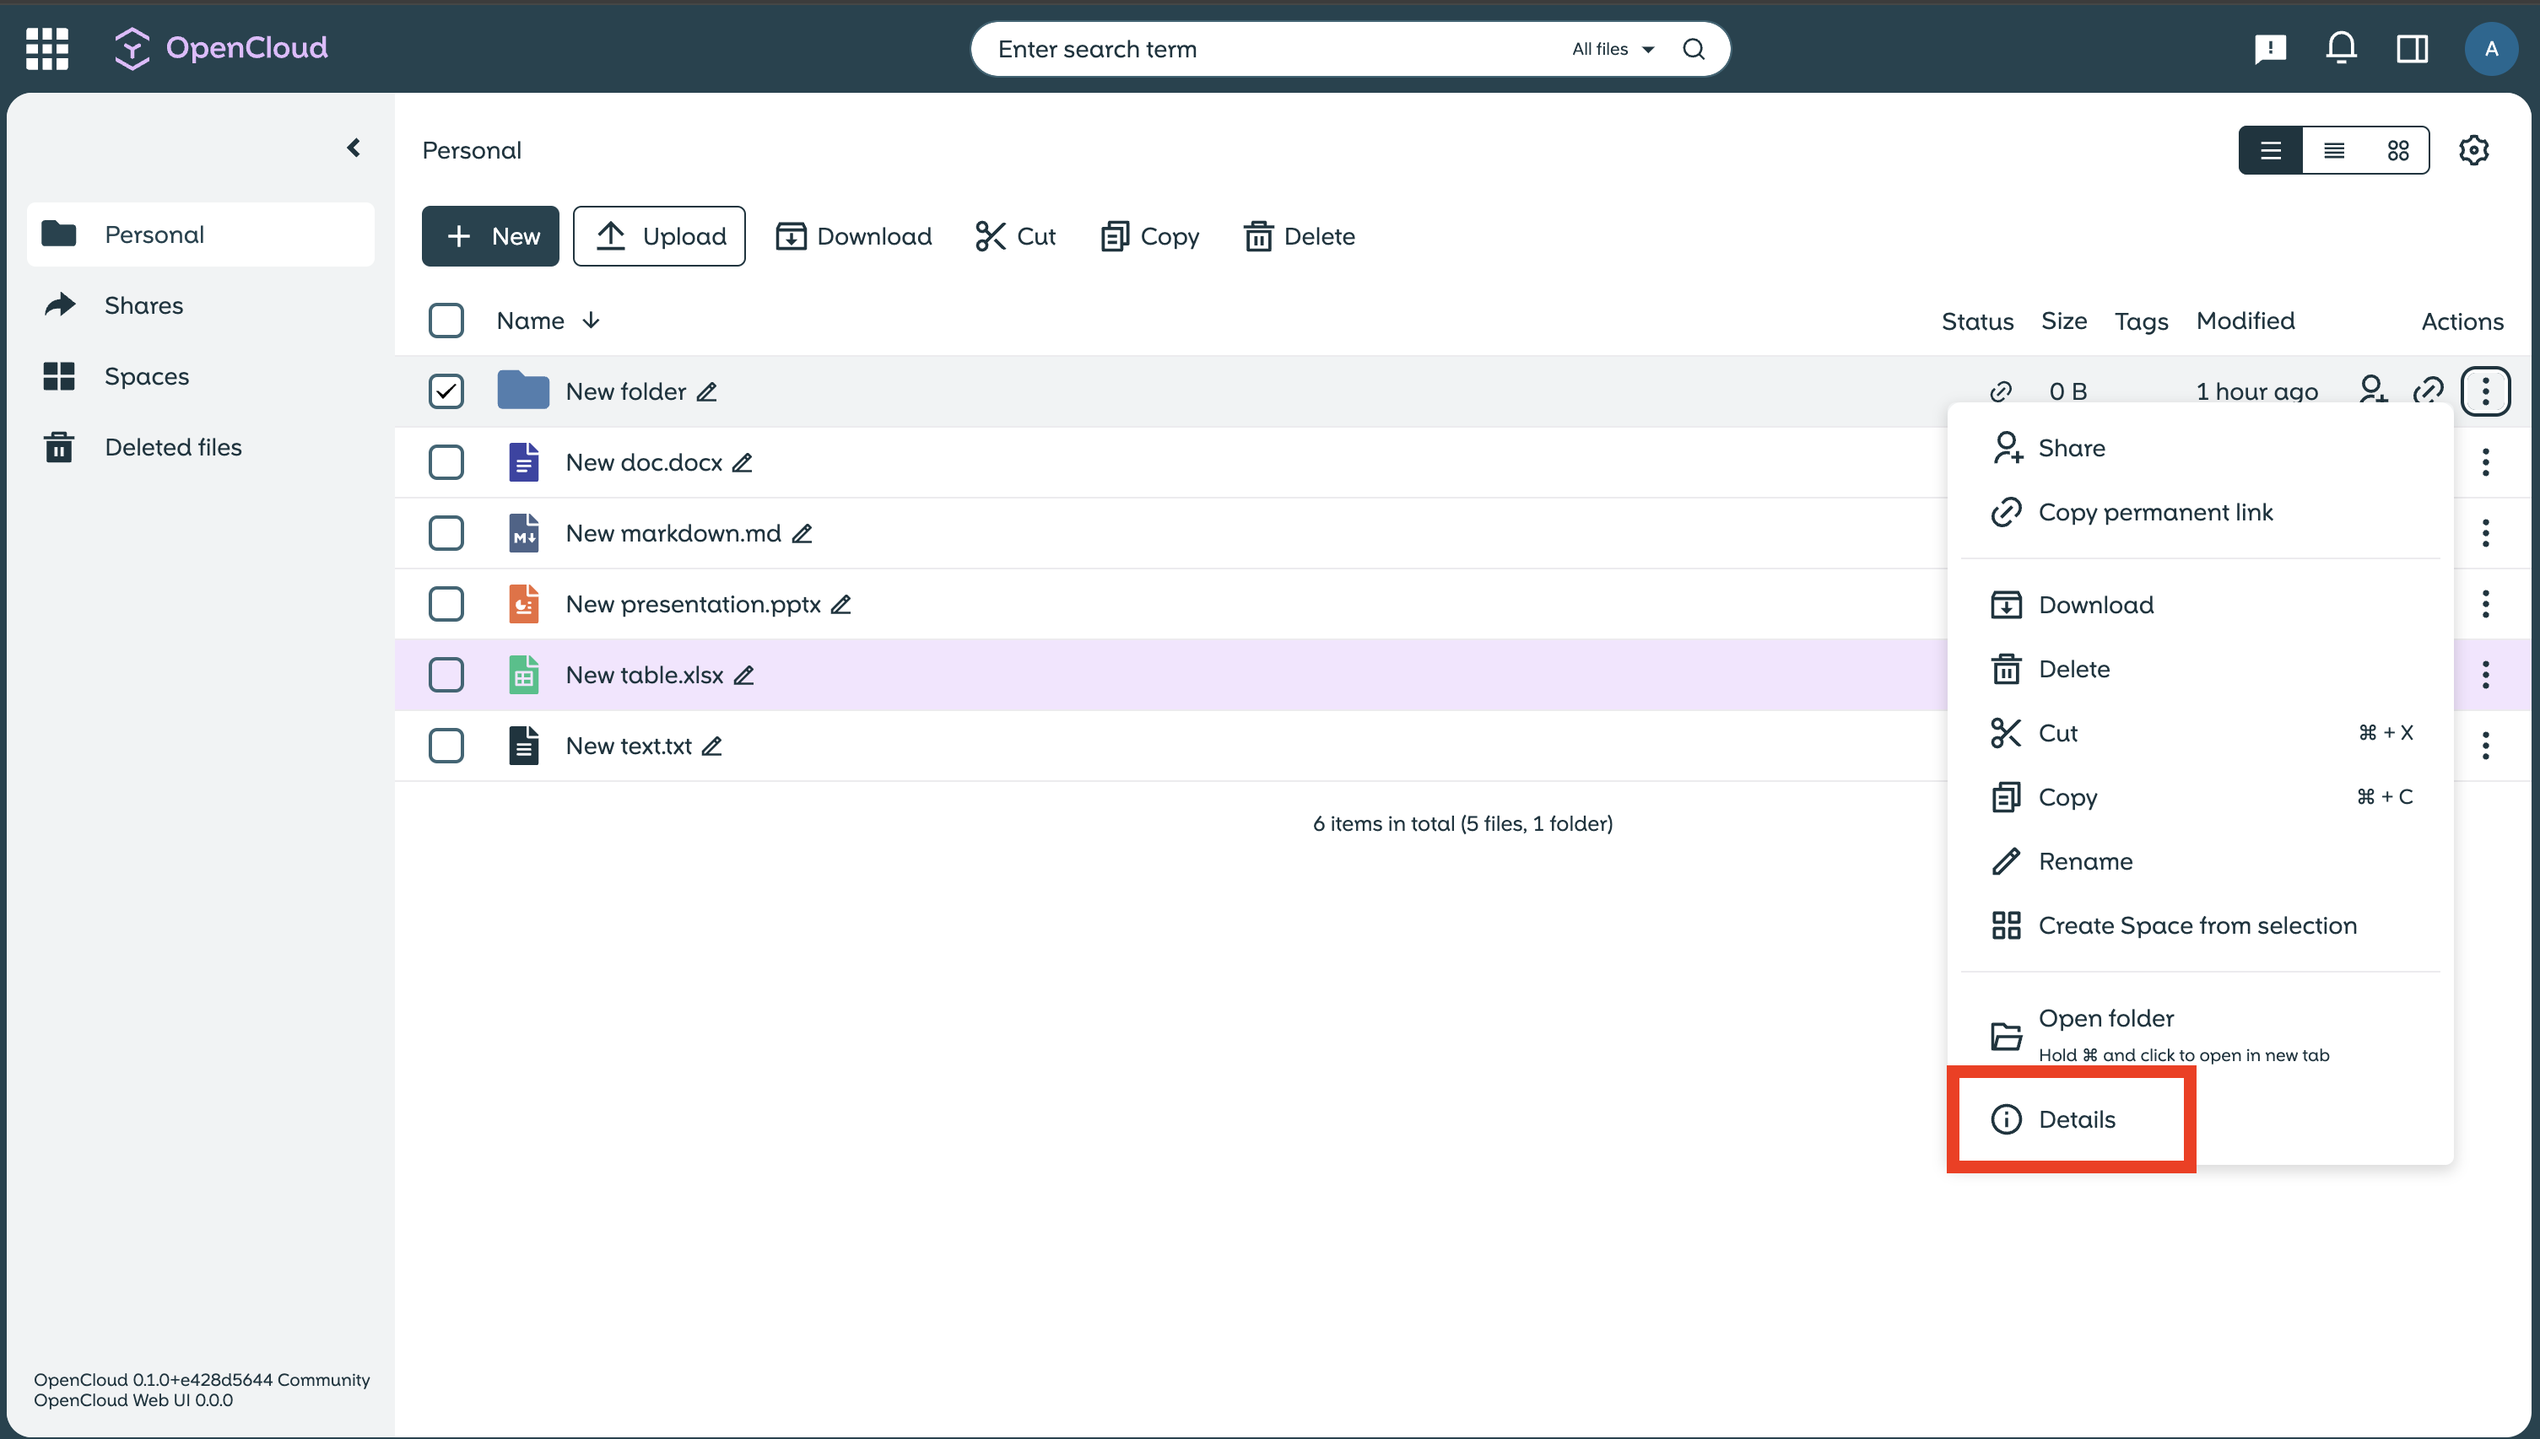
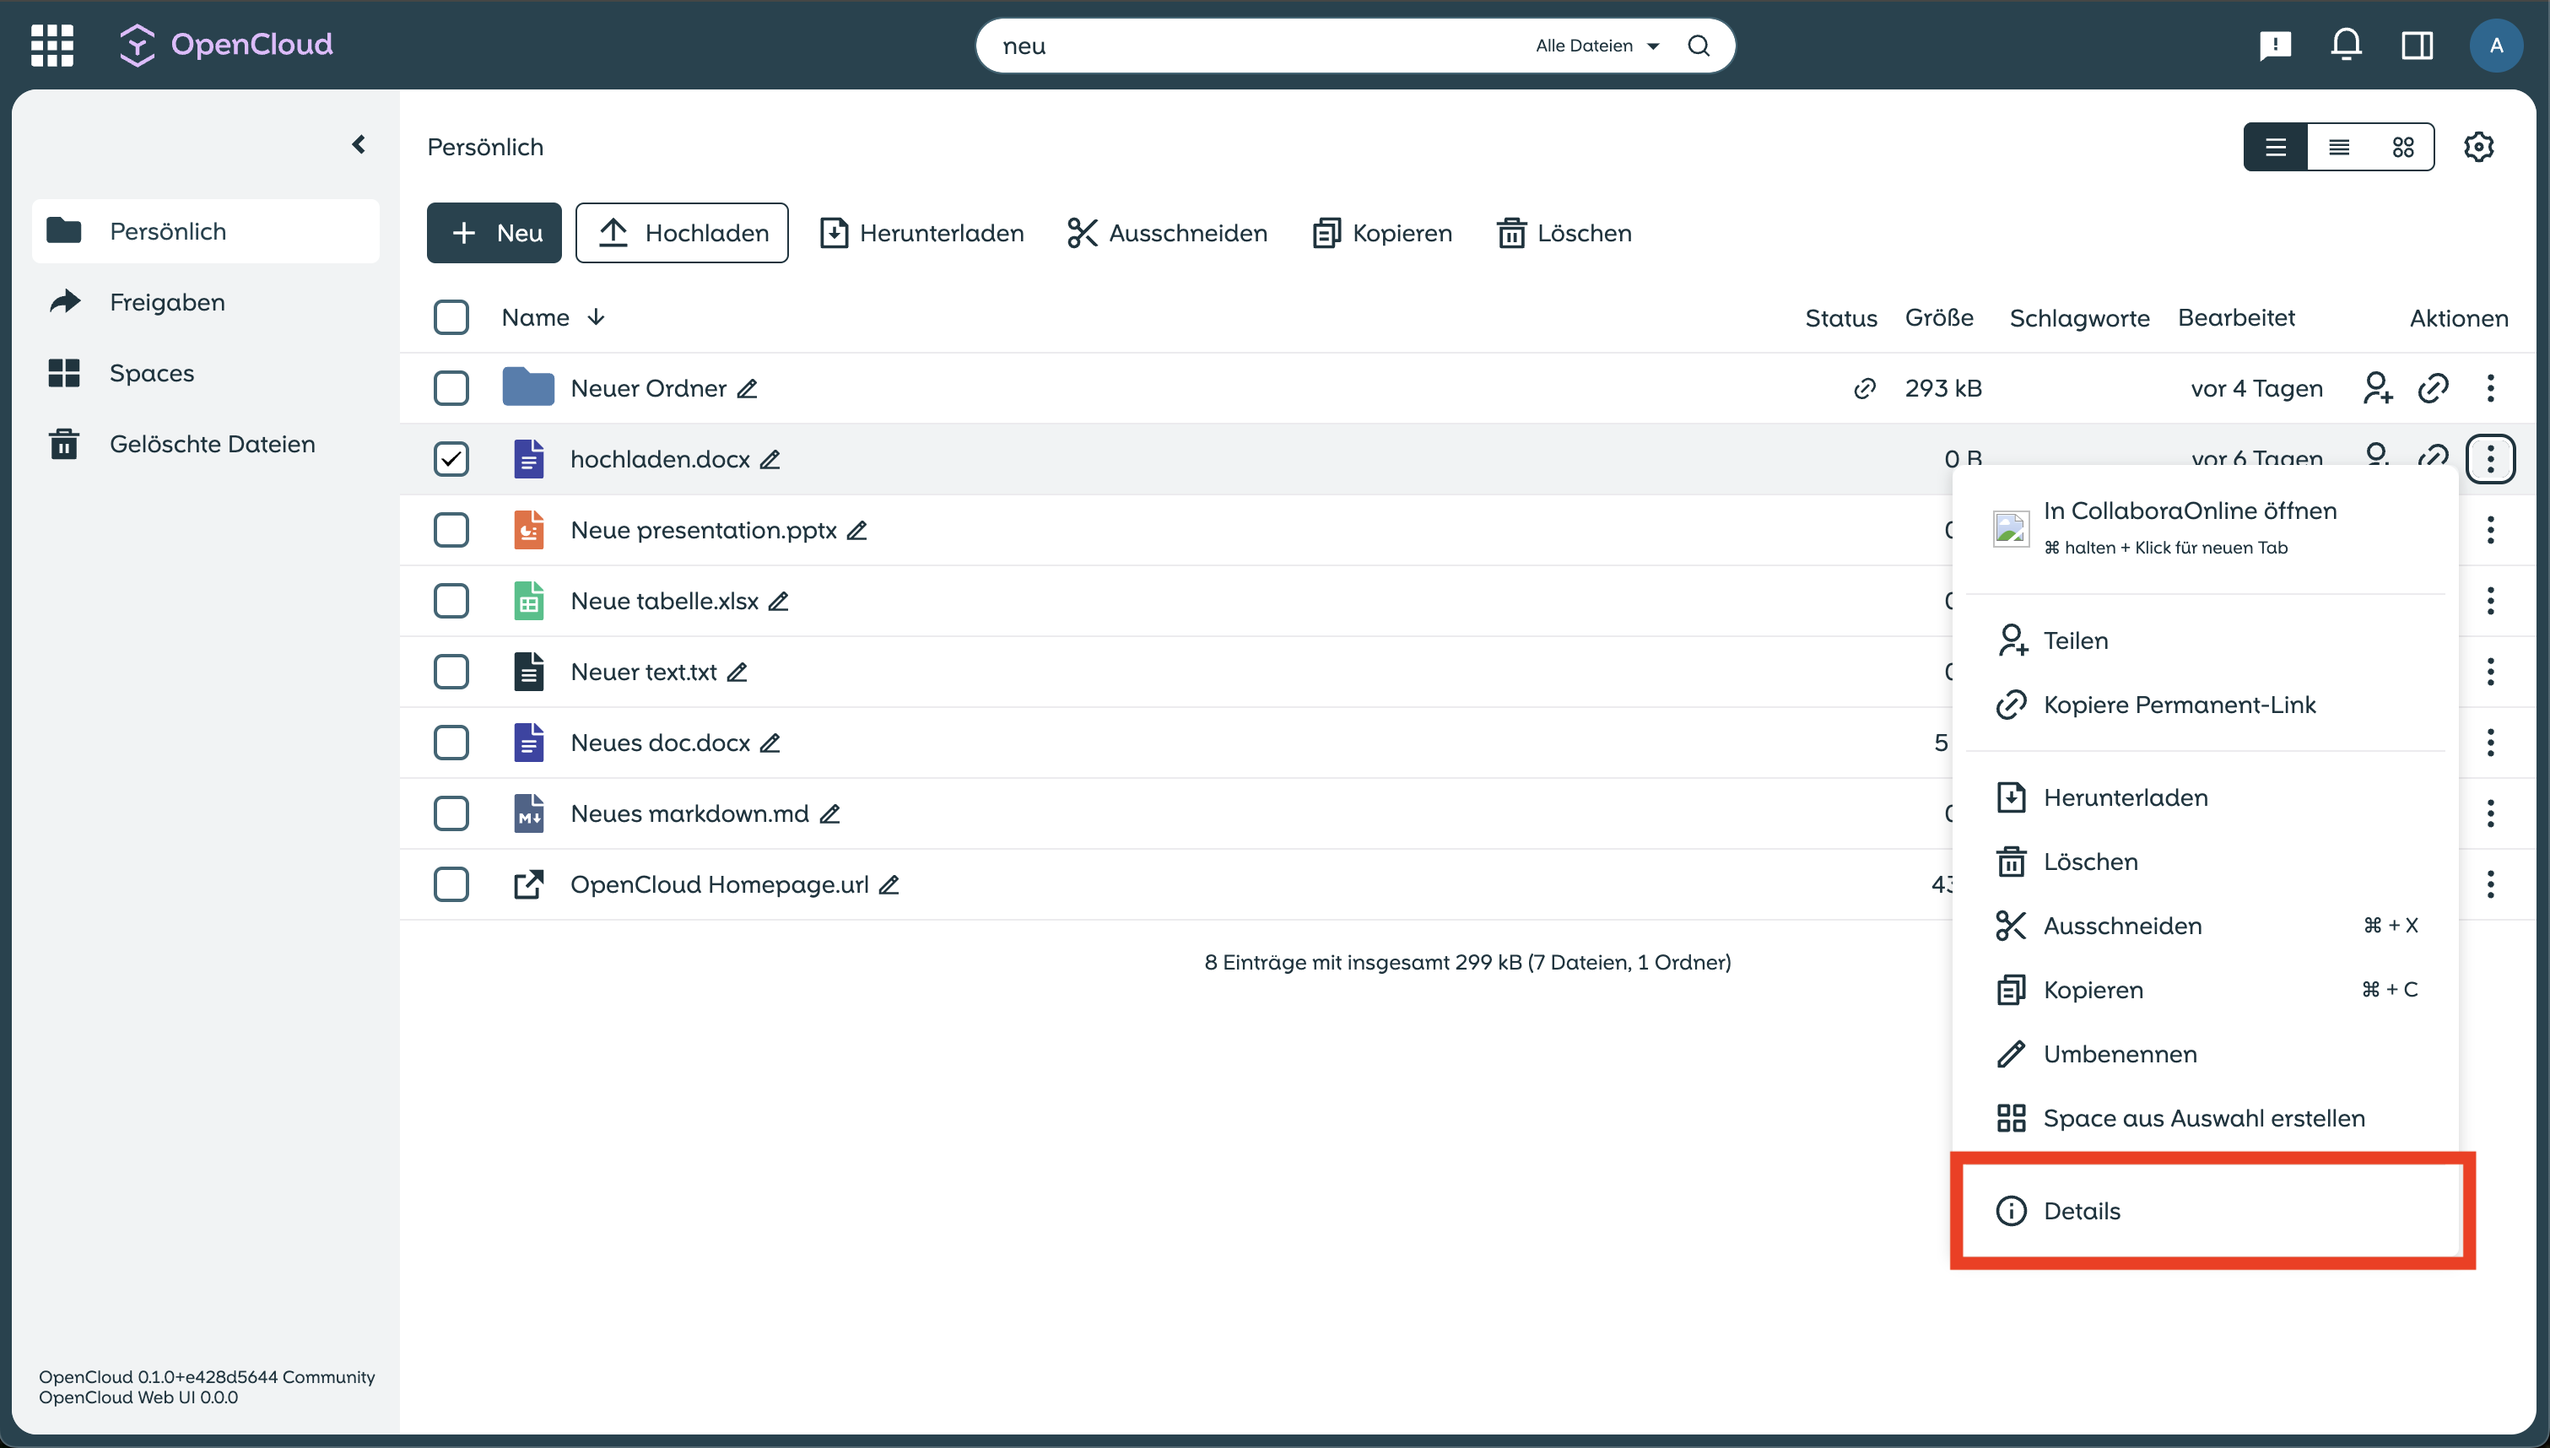
german tag tutorial

diff --git a/i18n/de/docusaurus-plugin-content-docs/current/user/files-and-folders/tags.md b/i18n/de/docusaurus-plugin-content-docs/current/user/files-and-folders/tags.md
@@ -1,0 +1,56 @@
+---
+id: tags
+title: Tags
+---
+# Tags / Schlagworte
+<br/><br/>
+
+## Tags / Schlagworte hinzufügen und verwalten mit OpenCloud
+<br/><br/>
+
+### Mit OpenCloud können Sie Dateien und Ordner mit **Tags** versehen, um diese einfacher zu suchen oder zu gruppieren. Hier erfahren Sie, wie es funktioniert:
+<br/><br/>
+
+---
+
+#### Tag hinzufügen
+
+- **Kontextmenü öffnen**  
+   - Machen Sie einen **Rechtsklick** auf die Datei oder den Ordner, oder  
+   - Klicken Sie auf die **drei Punkte** in der entsprechenden Zeile.  
+   <img src={require("./img/tags/drei-punkte-menue.png").default} width="1920"/>
+<br/><br/>
+
+- **Details auswählen**  
+   Wählen Sie im Kontextmenü die Option **„Details“** aus.  
+   <img src={require("./img/tags/details-button.png").default} width="1920"/>
+<br/><br/>
+
+- **Tag eingeben**  
+   - Klicken Sie in das Eingabefeld neben **„Schlagworte“**.  
+   <img src={require("./img/tags/schlagwort-zeile.png").default} width="400"/>
+   <br/><br/>
+   - Wählen Sie einen vorhandenen Tag aus, oder  
+   - Geben Sie einen neuen Begriff ein, um einen neuen Tag zu erstellen.  
+   <img src={require("./img/tags/tag-auswaehlen.png").default} width="400"/>
+<br/><br/>
+
+- **Fertig**  
+   Der Tag wird hinzugefügt und ist nun mit der Datei oder dem Ordner verknüpft.
+<br/><br/>
+
+---
+
+#### Tag entfernen
+
+- Öffnen Sie erneut die **„Details“** der Datei/des Ordners.  
+<img src={require("./img/tags/details-button.png").default} width="1920"/>
+<br/><br/>
+- Suchen Sie den Tag, den Sie entfernen möchten.  
+- Klicken Sie auf das **„X“** neben dem Tag, um ihn zu löschen.  
+<img src={require("./img/tags/tag-loeschen.png").default} width="400"/>
+<br/><br/>
+
+---
+
+**Das war’s! Die Datei oder der Ordner ist nun nicht mehr mit diesem Tag verbunden.**
